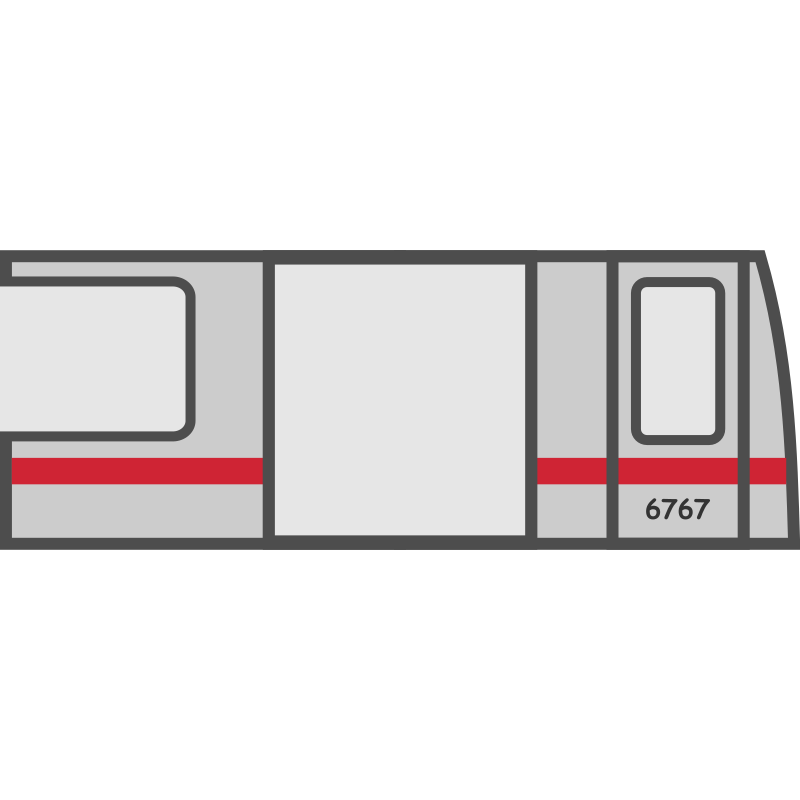
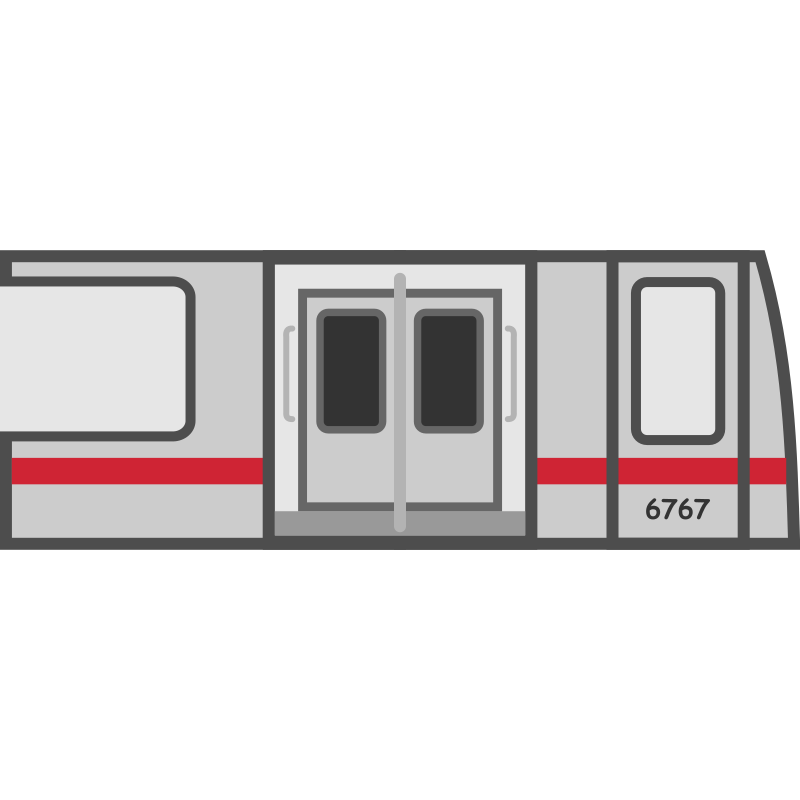
Update train door timing and asset

Changed region(s): [[0.3438, 0.3438, 0.6562, 0.6875]]

diff --git a/app.js b/app.js
@@ -4,7 +4,7 @@ const DEMO_SKIP_QUERY_VALUE = "true";
 const USER_SETTINGS_STORAGE_KEY = "train-to-bishan:user-settings";
 const RANDOM_TRAIN_SOUND_MIN_GAP = 30_000;
 const MIN_TRAIN_ARRIVAL_DURATION = 10_000;
-const TRAIN_SLIDE_LEAD_TIME = 7_000;
+const TRAIN_SLIDE_LEAD_TIME = 6_000;
 const DEFAULT_GAME_SETTINGS = {
   routeStations: [
     { code: "NS25", name: "City Hall" },
